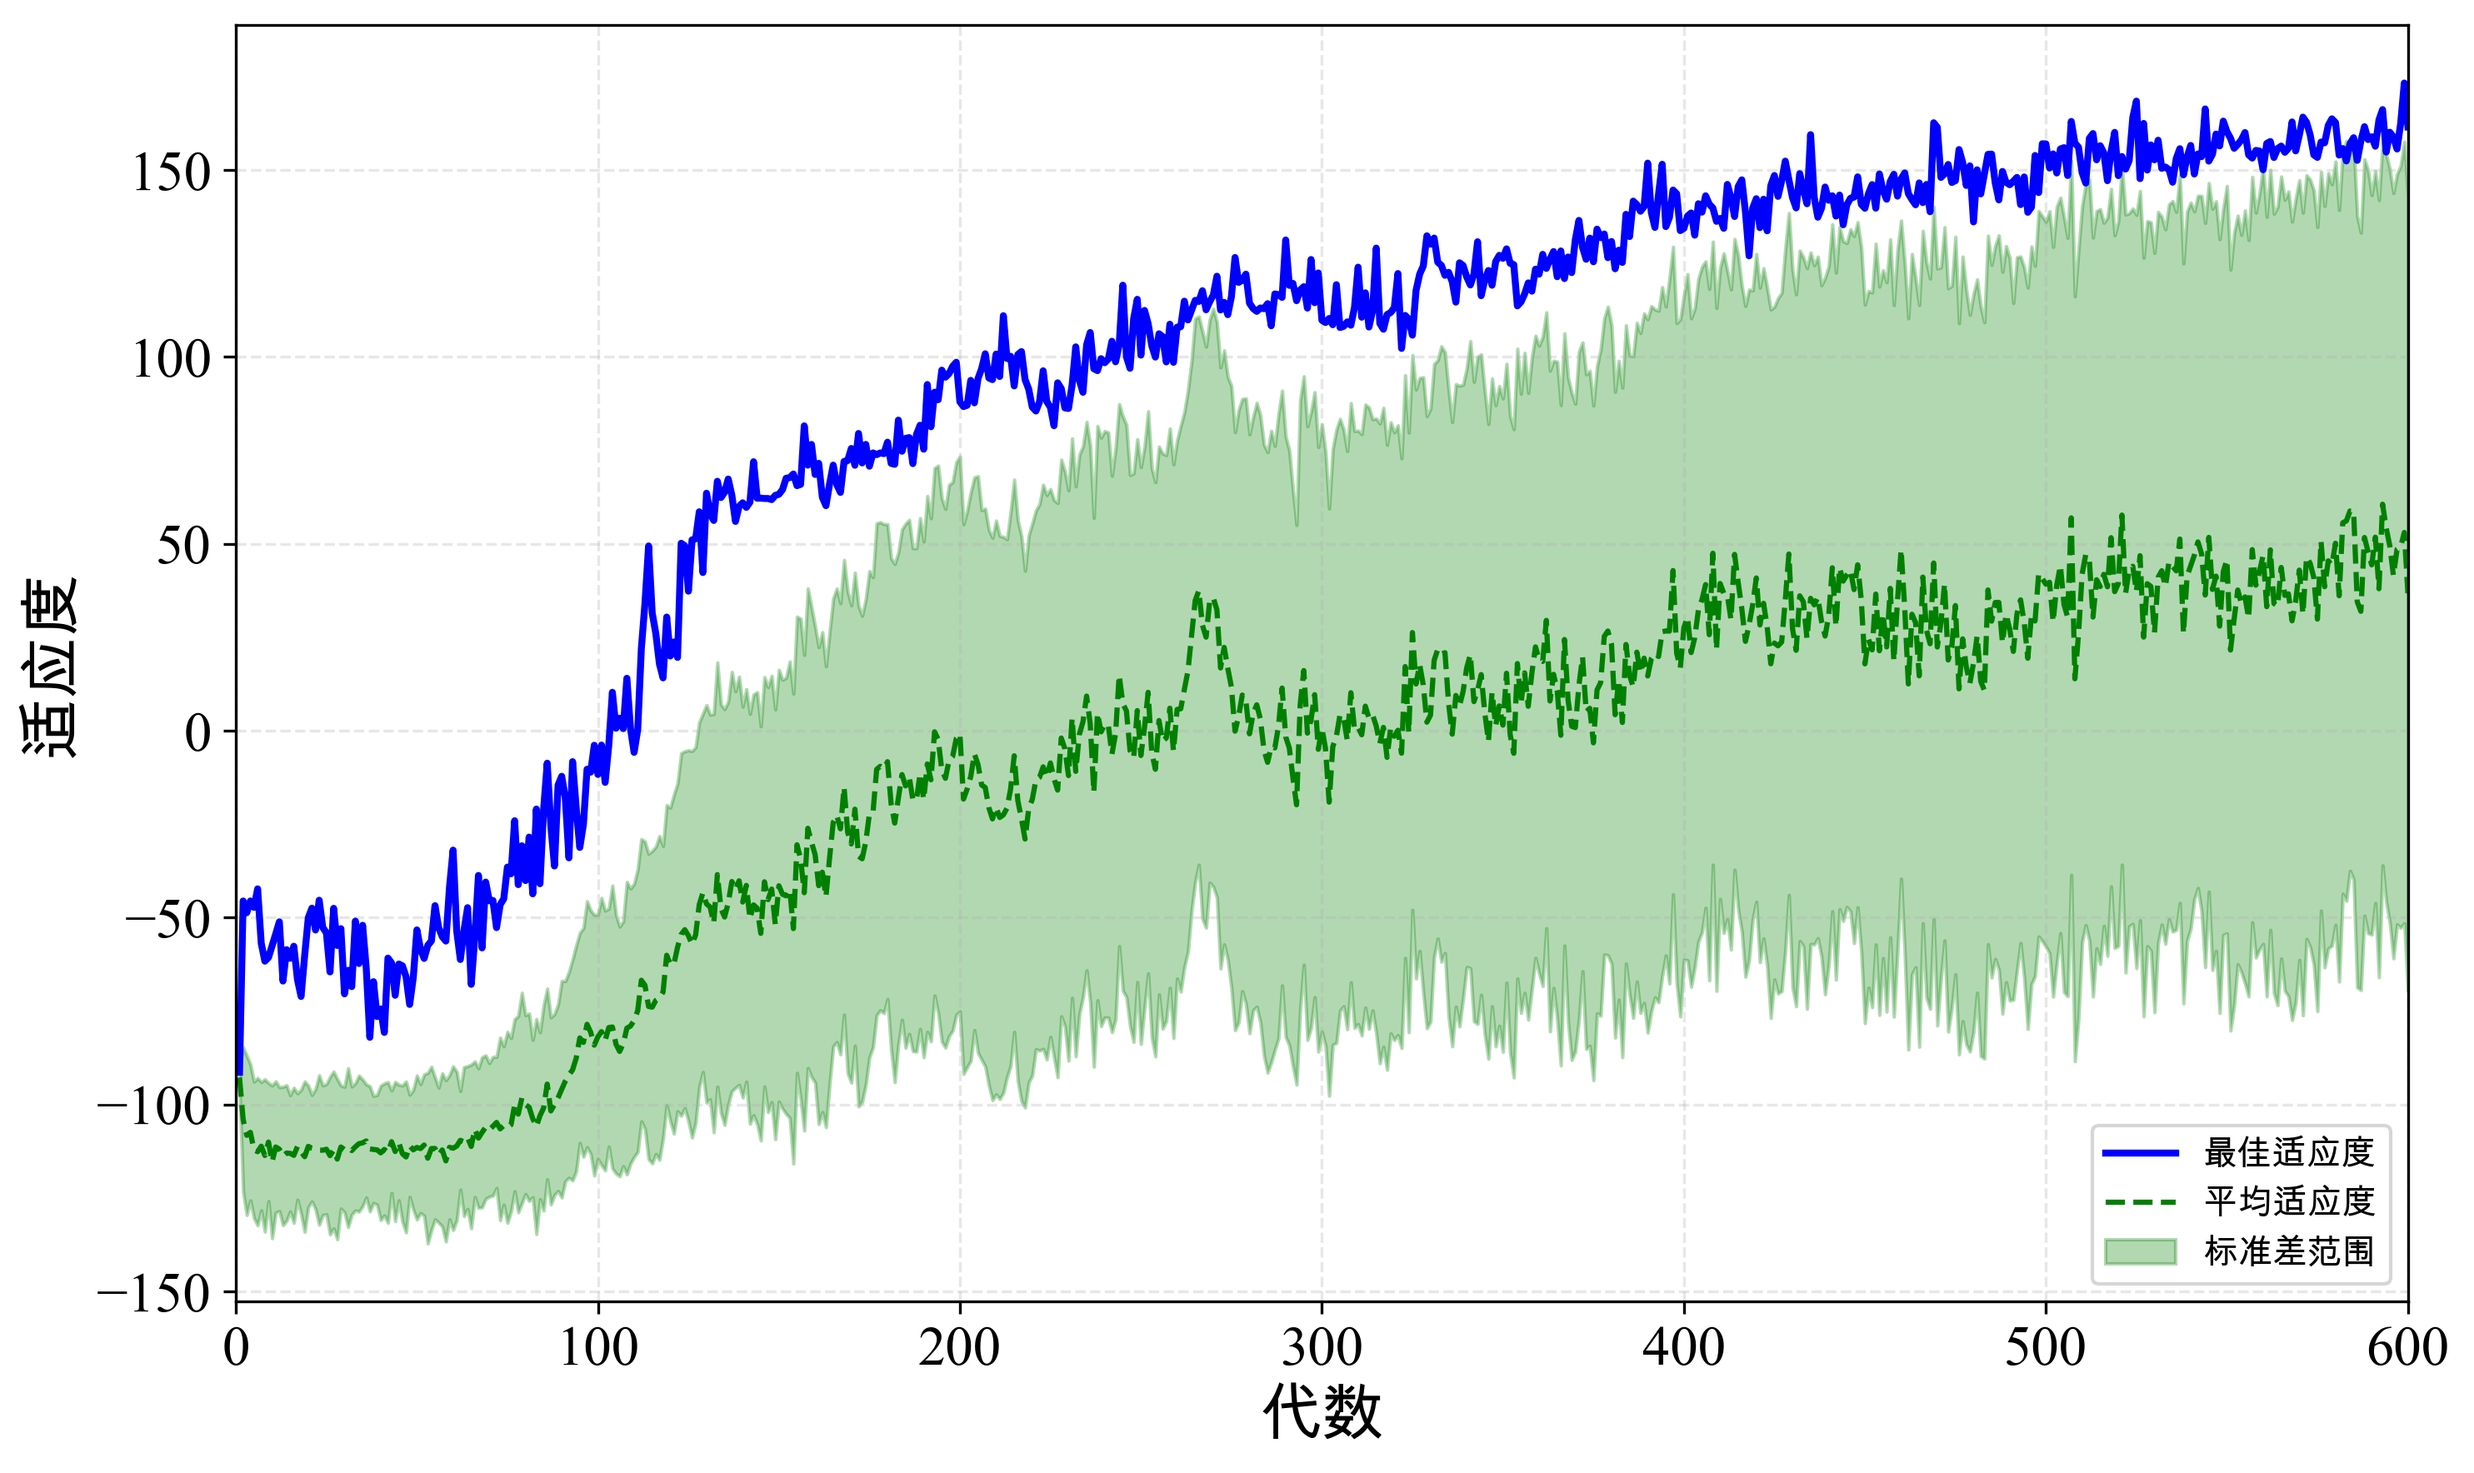
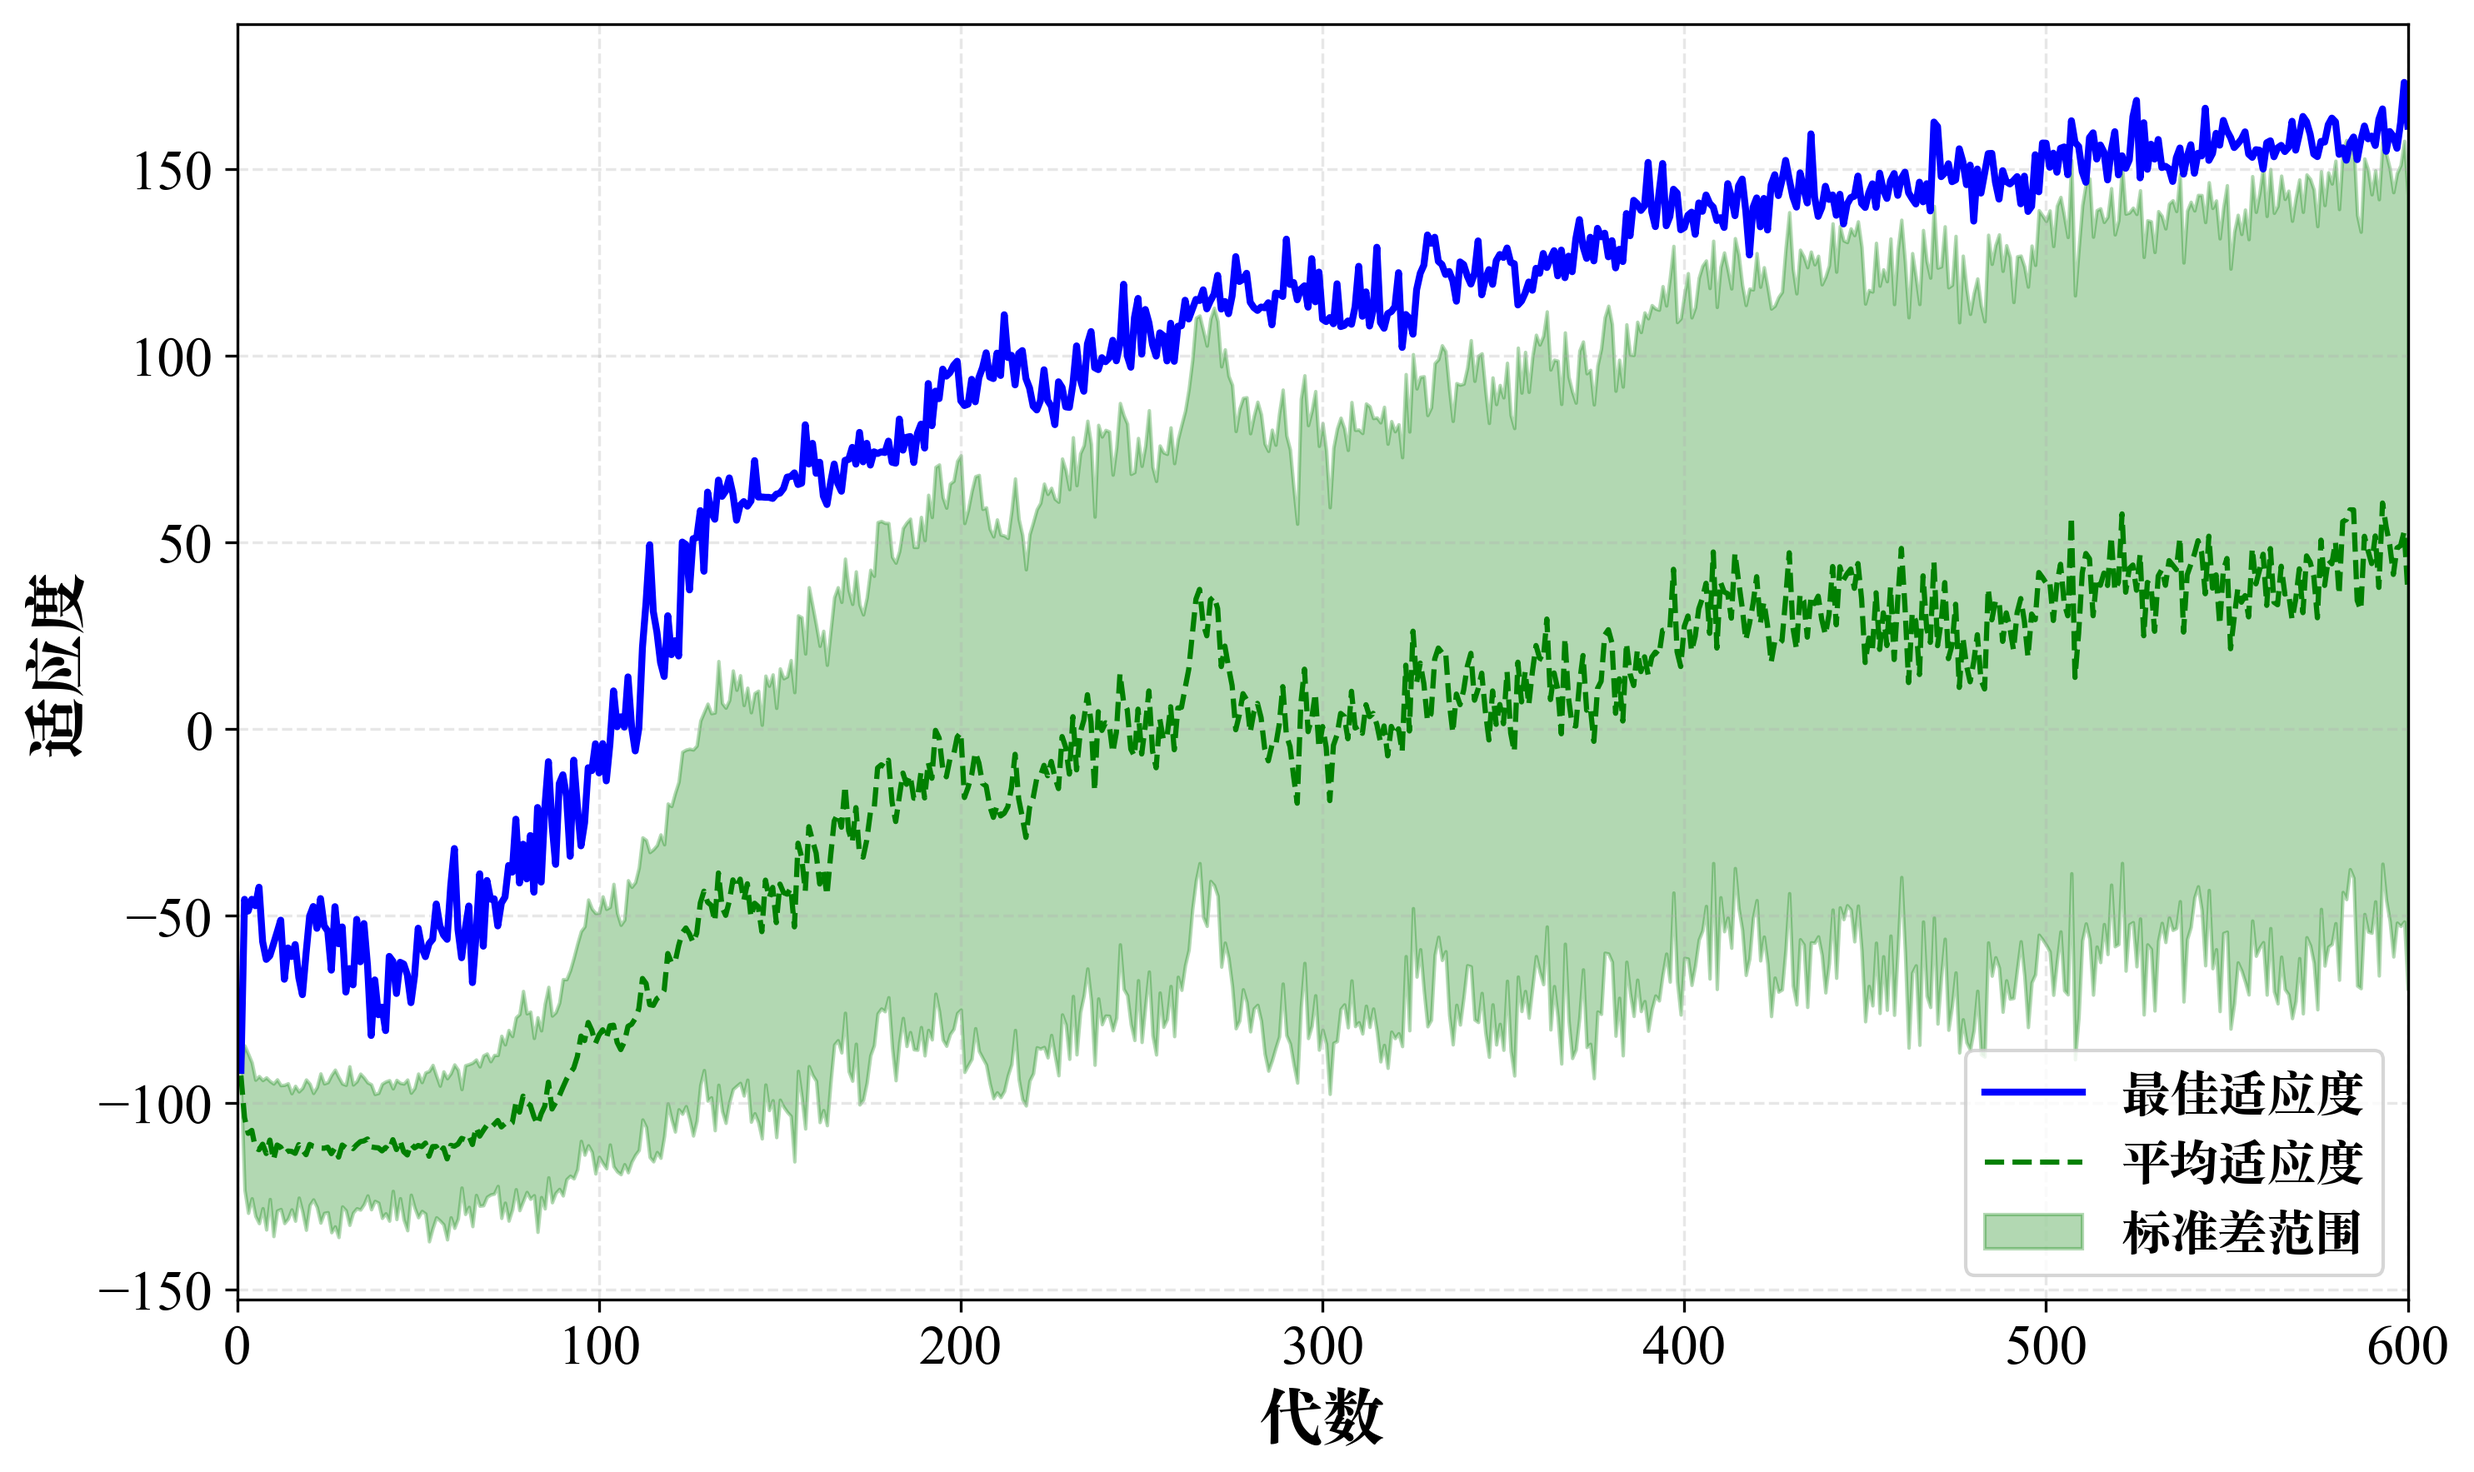
Match font settings exactly with CartPole visualization
- Use FontProperties with exact font files
- Times New Roman (size 16) for tick labels
- Songti (size 18) for axis labels
- Songti (size 14) for legend
- Now completely identical to CartPole style

diff --git a/demos/walker_attempts/visualize_walker.py b/demos/walker_attempts/visualize_walker.py
@@ -9,23 +9,13 @@ import re
 import matplotlib.pyplot as plt
 import numpy as np
 
-# Set up better fonts
-plt.rcParams['font.family'] = 'serif'
-plt.rcParams['font.serif'] = ['Times New Roman', 'DejaVu Serif']
-plt.rcParams['mathtext.fontset'] = 'stix'
-
-# Chinese font for labels
+# Set up fonts exactly like CartPole
 from matplotlib.font_manager import FontProperties
-chinese_font = None
-for font_name in ['Arial Unicode MS', 'SimHei', 'Songti SC', 'STSong']:
-    try:
-        chinese_font = FontProperties(fname=None, family=font_name)
-        break
-    except:
-        continue
 
-if chinese_font is None:
-    chinese_font = FontProperties()
+# Font settings matching CartPole style
+font_en = FontProperties(fname="/System/Library/Fonts/Supplemental/Times New Roman.ttf", size=16)
+font_cn = FontProperties(fname="/System/Library/Fonts/Supplemental/Songti.ttc", size=18)
+font_cn_legend = FontProperties(fname="/System/Library/Fonts/Supplemental/Songti.ttc", size=14)
 
 def parse_log_file(log_file_path, max_gen=600):
     """Parse training log file and extract best fitness, mean fitness, and std per generation"""
@@ -85,9 +75,9 @@ def visualize_training(log_file_path, output_path='walker_training_progress.png'
         label='标准差范围'
     )
     
-    # Set labels with larger font
-    ax.set_xlabel('代数', fontproperties=chinese_font, fontsize=18)
-    ax.set_ylabel('适应度', fontproperties=chinese_font, fontsize=18)
+    # Set labels with larger font (matching CartPole)
+    ax.set_xlabel('代数', fontproperties=font_cn, fontsize=18)
+    ax.set_ylabel('适应度', fontproperties=font_cn, fontsize=18)
     
     # Set axis limits
     ax.set_xlim(0, max_gen)
@@ -95,8 +85,12 @@ def visualize_training(log_file_path, output_path='walker_training_progress.png'
     # Increase tick label font size
     ax.tick_params(axis='both', which='major', labelsize=16)
     
-    # Add legend in lower right
-    ax.legend(loc='lower right', fontsize=14, prop=chinese_font)
+    # Set tick label fonts (matching CartPole)
+    for label in ax.get_xticklabels() + ax.get_yticklabels():
+        label.set_fontproperties(font_en)
+    
+    # Add legend in lower right (matching CartPole)
+    ax.legend(loc='lower right', prop=font_cn_legend)
     
     # Add grid for better readability
     ax.grid(True, alpha=0.3, linestyle='--')
